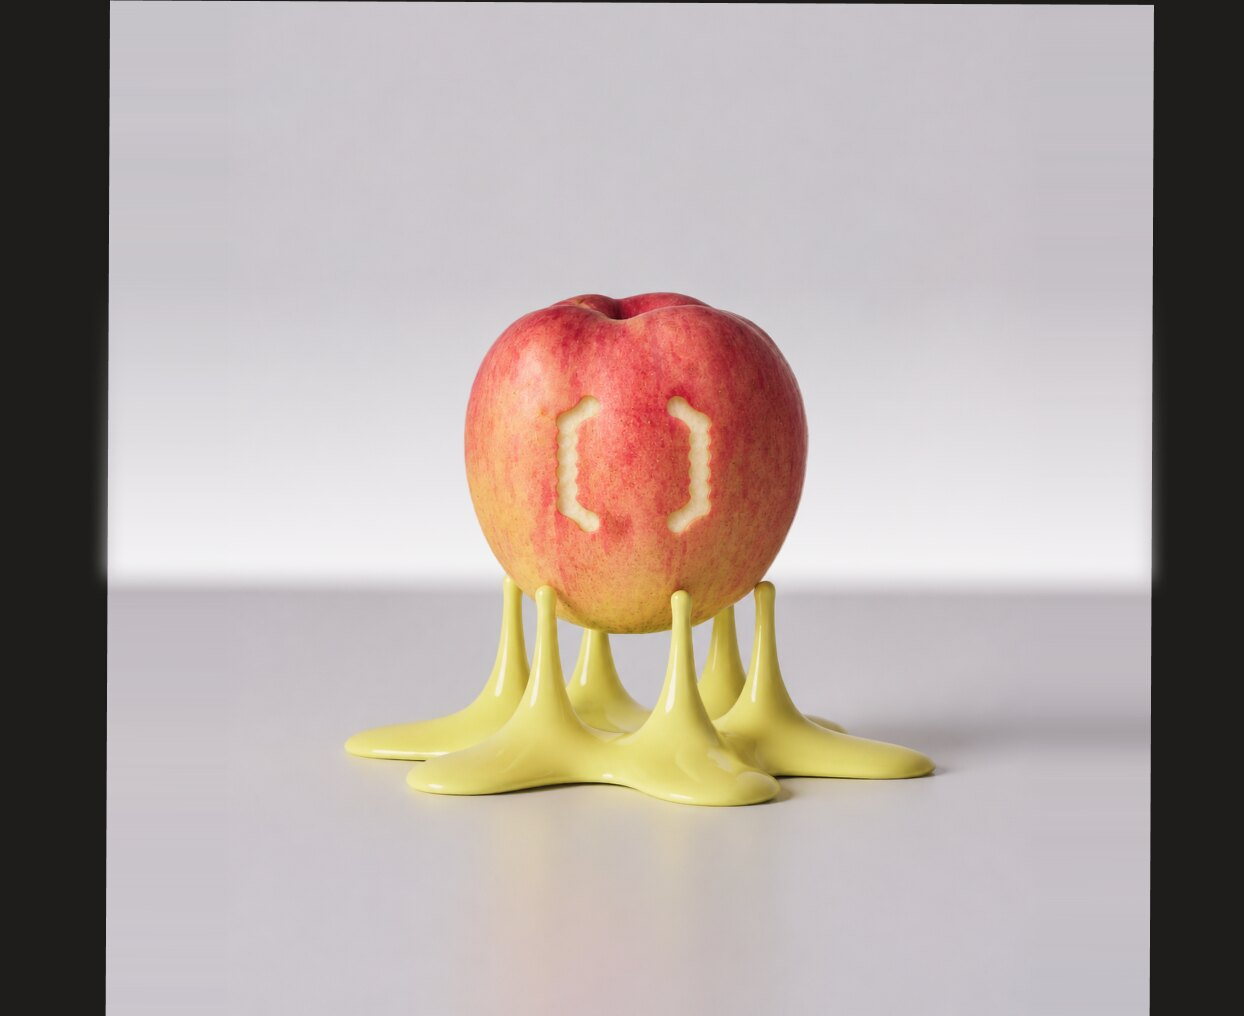
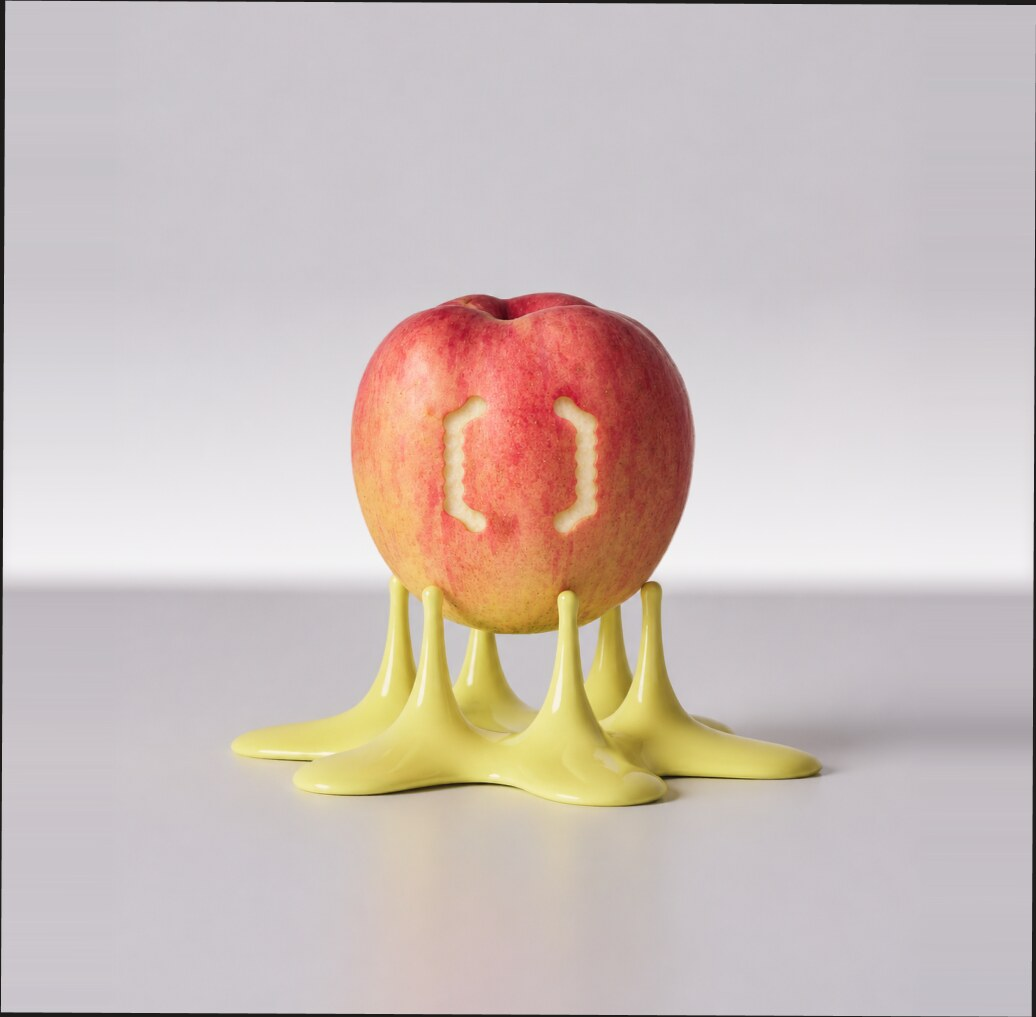
FORMULA 시작 화면: 피그마 Frame 28에서 고친 그림으로 교체 (518×508.5, 자리 706.5·284.5)
Claude-Session: https://claude.ai/code/session_018DHmFSzFDNccdrzM3zR5qe

Changed region(s): [[0.2162, 0.2746, 0.8031, 0.7933], [0.0, 0.0, 0.556, 1.0], [0.8958, 0.0, 1.0, 1.0]]

diff --git a/formula/style.css b/formula/style.css
@@ -325,7 +325,7 @@ input, textarea, [contenteditable="true"] { caret-color: auto; -webkit-user-sele
 .attract { position: fixed; inset: 0; z-index: 60; background: #1e1d1b; transition: opacity .6s ease; }
 .attract.off { opacity: 0; pointer-events: none; }
 .attract-frame { position: absolute; left: 50%; top: 50%; --u: min(calc(100vw / 1920), calc(100vh / 1080)); width: calc(1920 * var(--u)); height: calc(1080 * var(--u)); translate: -50% -50%; }
-.attract-img { position: absolute; left: calc(649.8 * var(--u)); top: calc(284.6 * var(--u)); width: calc(622 * var(--u)); height: calc(508 * var(--u)); object-fit: cover; }
+.attract-img { position: absolute; left: calc(706.5 * var(--u)); top: calc(284.5 * var(--u)); width: calc(518 * var(--u)); height: calc(508.5 * var(--u)); object-fit: cover; }
 html.attract-on, html.attract-on body { overflow: hidden; cursor: none; }
 .pre { position: fixed; inset: 0; z-index: 50; background: var(--bg, #1e1d1b); transition: opacity .35s ease; }
 html.pre-on, html.pre-on body { overflow: hidden; }

diff --git a/CLAUDE.md b/CLAUDE.md
@@ -29,7 +29,7 @@
 - `formula/` 새 사이트 FORMULA (주소 /formula/, 만드는 중). 피그마 '클로드 연결' 페이지(1920×1080) Frame 4~7: 첫 화면(배경 #1e1d1b, 메뉴 DM Sans SemiBold 20px #efeae0) → 화면은 고정(sticky `.story` 200vh)된 채 장면이 바뀜(`main.js`의 SCENES): ①②는 로고 해독이 끝나고 AUTO_DELAY(0.5초) 뒤 **조작 없이 저절로** 이어서 재생(기다리는 중 스크롤하면 바로), ③은 스크롤이 지점 `at`을 지나면 `ms` 동안 끝까지 재생·올리면 거꾸로(①②로는 돌아가지 않음): ① 검정→흰(#fafaf8) 전환: 캔버스 칸(가로 32칸)에 흰 구슬이 무작위로 찍히고(QR처럼, 모션 UI qr-reveal 응용) → 왼쪽 위→오른쪽 아래 물결로 칸마다 괄호 ( ) 모양 렌즈가 벌어지며 흰색, 로고 글자·메뉴도 물결이 지날 때 가로로 뒤집히며 진한색(#1e1d1b) ② 괄호가 속 빈 외곽선이 되며 양옆으로 벌어짐(PAREN_GAP) ③ 로고가 작아지며 위로(SMALL·SMALL_Y) + 소개글(Bitcount Grid Single 'Every Day, a New Form' / 한글 Pretendard / 영어 DM Sans #494745) 전시용: 2분(`main.js`의 IDLE_MS) 동안 마우스·스크롤·키보드·터치가 없으면 맨 위로 올라가 첫 모션부터 다시(이미 처음 화면이면 그대로). ④ 조형 8개(`.forms`, 위 가운데 안내 한 줄 `.forms-hint` + 마우스 올리면 조형 아래 `N 0번호 과정 보기 →`(`.form-cap`, 터치 기기는 늘 보임), 누르면 `history.html?n=번호` 히스토리: 피그마 '웹사이트 디자인 완성본' PROCESS 3 줄(조형마다 5장)과 같게 1920×1080 판 하나를 화면에 꼭 맞춤(메인 How the Formula Works와 같은 pr-* 모양, 큰 괄호 + N. 0번호 = + 진행 점). Today's Food(사진 두 칸) → Extract(그 음식 짝의 특징 구슬 10개, 음식 색 foods.js `color`로 칠함(SVG를 mask로), 마우스 올리면 이름) → Mix(특징 짝 6개 A+B: 왼쪽 3 · 오른쪽 3, 가운데 세로선 3px, foods.js `pairs`. 피그마 PROCESS 3 Mix와 같게) → Six Forms(AI 조형 여섯 칸) → Create form(완성 조형 3D가 천천히 계속 돎: hover3d.js `data-auto`, 빠르기 `history.js`의 SPIN3D 0.35. 그 장이 보일 때만 그림 — 다른 장에서 계속 그리면 Extract 구슬 마우스 반응이 느려짐). ← BACK / NEXT →(첫 장 BACK은 조형 화면으로), 휠 한 번에 한 장, ←→ 키, 진행 점, 손가락 밀기. 장이 바뀔 때 괄호 숨쉬기. 주소 `#1~5`로 장 지정. 2분 무조작이면 첫 화면. 자료는 **`formula/foods.js`의 FOODS**(ARCHIVE와 같이 씀: 음식 이름·사진·특징 이름·mix·ai·조형, 비면 자리만). 조형 화면은 Frame 7 좌표 --x --y --w --h, 번호·제목 없음). SVG는 피그마에서 내보냄(`forms/no_03~08.svg`). 3D: 8개 모두(N 01=form_02, N 02=form_12, 나머지 `forms/no_번호.glb`, 작업자가 준 STL·STEP을 변환). N 08은 피그마에서 가로로 눕힘 → `--axes=-x,-z,-y`. N 06 SVG는 바깥 꽃(고운 입자 질감, 피그마 노이즈 효과) + 안쪽 꽃(매끈) 두 겹. N 03(트레이)·N 04는 SVG가 위에서 본 모양 → `data-face="top"`(누워 있다가 세워지며 돎). N 05는 SVG가 '펼친 모양' → `tools/unfold_glb.py`가 물결 리본을 계산으로 펴서 GLB 기본 모양 = 펼친 판, 모프 타깃 = 접힌 모양으로 저장 → 마우스 올리면 펼친 판이 물결로 접힘(`data-ms="1100"`). 피그마 SVG와 3D 윤곽·질감이 조금 다른 N 03·04·05·06은 `data-blend`(0.18초 겹쳐 바뀜). 좌표는 피그마 px × `--u`(화면 폭÷1920). 로고는 구슬 글자 8개(SVG 글자별 칸 `.slot`), 글자 해독(text scramble) 모션: 처음 열릴 때 **한 번만** 왼쪽부터 제자리를 찾고 바로 전환(마우스를 올려도 다시 돌지 않음, 2분 무조작으로 처음으로 돌아가면 다시 한 번)(칸마다 8글자를 미리 넣어 두고 켜고 끄기만 해서 가벼움. 괄호 깜빡임은 없앰) / 메뉴는 글자 솟아오르기(split text reveal): 처음 열릴 때 차례로, 마우스 올리면 그 메뉴만 다시. 로고 원본 SVG는 `발표자료/로고/`. `formula/media/`는 예전 시안에서 쓴 영상·화면(나중에 쓸 수 있어 남겨 둠)
   - 사이트 전체(style.css): 글자를 눌러도 깜빡이는 글자 커서(|)가 안 생기게 `caret-color: transparent`, 끌어도 글자 선택 안 됨(`user-select: none`). 입력칸이 생기면 그 칸만 되돌림
   - `formula/check.html` **확인용 페이지**(전시용 아님, 검색 안 됨): 메인 장면(첫 화면·OVERVIEW·HOW IT WORKS·조형 8개)·ARCHIVE·CONTACT·히스토리 8×5장을 작은 미리보기로 한눈에(미리보기는 `?thumb`라 3D 대신 평면 조형), 누르면 새 탭에서 `?check`로 열림. `?check`면 맨 처음 화면(pre.js) 건너뜀·스크롤 잠금(lock.js) 없음·2분 무조작 초기화 없음. 주소에 `#장면`이 있으면 맨 처음 화면은 건너뜀
-  - `formula/attract.js` **시작 화면**(피그마 '웹사이트 디자인 완성본' Frame 28, pre.js보다 앞): 어두운 화면(#1e1d1b) 가운데 그림 한 장(`formula/start.jpg`, 피그마 자리 649.8,284.6 · 622×508). 마우스를 8px 넘게 움직이거나 누르면(휠·키·터치도) 사라지고 → pre.js(외곽선 로고)부터 시작(pre.js는 `window.FORMULA_ATTRACT`를 기다림). 2분 무조작이면 main.js `goHome`이 이 화면을 다시 띄우고, 움직이면 로고 해독부터 다시. 그림 파일이 없으면 이 화면은 건너뜀. `?check`·`#장면`이면 건너뜀
+  - `formula/attract.js` **시작 화면**(피그마 '웹사이트 디자인 완성본' Frame 28, pre.js보다 앞): 어두운 화면(#1e1d1b) 가운데 그림 한 장(`formula/start.jpg`, 피그마 자리 706.5,284.5 · 518×508.5). 마우스를 8px 넘게 움직이거나 누르면(휠·키·터치도) 사라지고 → pre.js(외곽선 로고)부터 시작(pre.js는 `window.FORMULA_ATTRACT`를 기다림). 2분 무조작이면 main.js `goHome`이 이 화면을 다시 띄우고, 움직이면 로고 해독부터 다시. 그림 파일이 없으면 이 화면은 건너뜀. `?check`·`#장면`이면 건너뜀
   - `formula/pre.js` 맨 처음 화면(피그마 '웹사이트 디자인 완성본' Frame 20, Frame 4보다 앞): 어두운 화면 가운데 속 빈 외곽선 로고(폭 501, 선 1px #fafaf8, **피그마 Frame 20 벡터 8개를 그대로** index.html `.pre-logo`에 넣음 — 예전처럼 로고 조각을 겹쳐 외곽선을 만들면 이음새에 뾰족한 자국이 생김. 커질 때 같은 벡터 속이 채워지고, 목표 자리는 진짜 로고 글자 칸) + 아래 'Every Day, a New Form'(Bitcount 24), 메뉴 없음. 글자가 하나씩 떠오름(IN_MS) → 머묾(HOLD_MS) → 로고가 커지며 속이 채워져 Frame 4 로고 자리로(GROW_MS) → 그다음 main.js(메뉴 솟아오르기·로고 해독·전환). main.js는 `window.FORMULA_PRE`를 기다림. 새로고침 때 이미 내려가 있거나 움직임 줄이기 설정이면 건너뜀
   - 피그마 기준 파일이 바뀜: https://www.figma.com/design/RS5csopSjftTR93zZbuXWp '웹사이트 디자인 완성본' 페이지 (Frame 4·1·5·11·6 첫 화면 → 12·15·16·17·13 OVERVIEW → PROCESS 다섯 장 How the Formula Works → 7 조형 8개). 메뉴 위치·Bitcount 자간 5%도 이 파일 기준
   - 메인 HOW IT WORKS 그림(피그마 PROCESS 3 첫 줄): Today's Food 점선 칸 + A·B 글자, Extract = N 01 특징 구슬 10개(진한색), Mix = N 01 특징 짝 6개, Six Forms 224×219 칸 6개. 메인 점선 칸은 2px #4f4f4f·점선 4/간격 6(`.pr-sec .pr-box`), 히스토리는 1px #c9c5bd 그대로
